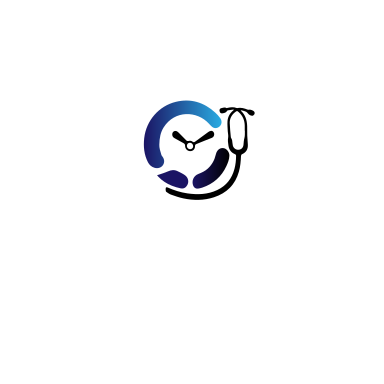
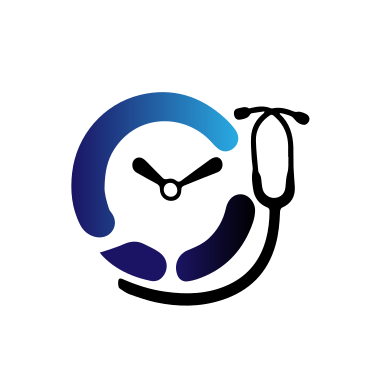
vvv

Changed region(s): [[0.1875, 0.2188, 0.8125, 0.8125]]

diff --git a/scripts/generate-icons.js b/scripts/generate-icons.js
@@ -32,11 +32,7 @@ const SPLASH_SCREENS = [
 async function generateIcons() {
   for (const icon of ICONS) {
     const outputPath = path.join(ICONS_DIR, icon.name);
-    // Use different padding and size for favicons vs other icons
-    const padding = icon.isFavicon ? Math.round(icon.size * 0.05) : Math.round(icon.size * 0.1); // 5% padding for favicon, 10% for others
-    const logoSize = icon.isFavicon ? Math.round(icon.size * 0.9) : Math.round(icon.size * 0.8); // 90% size for favicon, 80% for others
-    const sourceFile = icon.isFavicon ? FAVICON_SOURCE : SOURCE_LOGO;
-
+    
     // Create a white background
     const background = await sharp({
       create: {
@@ -47,23 +43,24 @@ async function generateIcons() {
       }
     }).png().toBuffer();
 
-    // Resize the logo with padding and composite onto the background
-    await sharp(sourceFile)
+    // Use mobile_app_logo.svg for all icons, with 100% size for favicons and 80% for others
+    const logoSize = icon.isFavicon ? icon.size : Math.round(icon.size * 0.8);
+    
+    // Resize the logo with padding
+    const logo = await sharp(FAVICON_SOURCE) // Always use FAVICON_SOURCE (mobile_app_logo.svg)
       .resize(logoSize, logoSize, {
         fit: 'contain',
         background: { r: 255, g: 255, b: 255, alpha: 0 }
       })
-      .toBuffer()
-      .then(async (logo) => {
-        await sharp(background)
-          .composite([{
-            input: logo,
-            top: Math.round((icon.size - logoSize) / 2),
-            left: Math.round((icon.size - logoSize) / 2)
-          }])
-          .png()
-          .toFile(outputPath);
-      });
+      .toBuffer();
+
+    // Composite the logo onto the center of the background
+    await sharp(background)
+      .composite([{
+        input: logo,
+        gravity: 'center'
+      }])
+      .toFile(outputPath);
 
     console.log(`Generated ${icon.name}`);
   }
